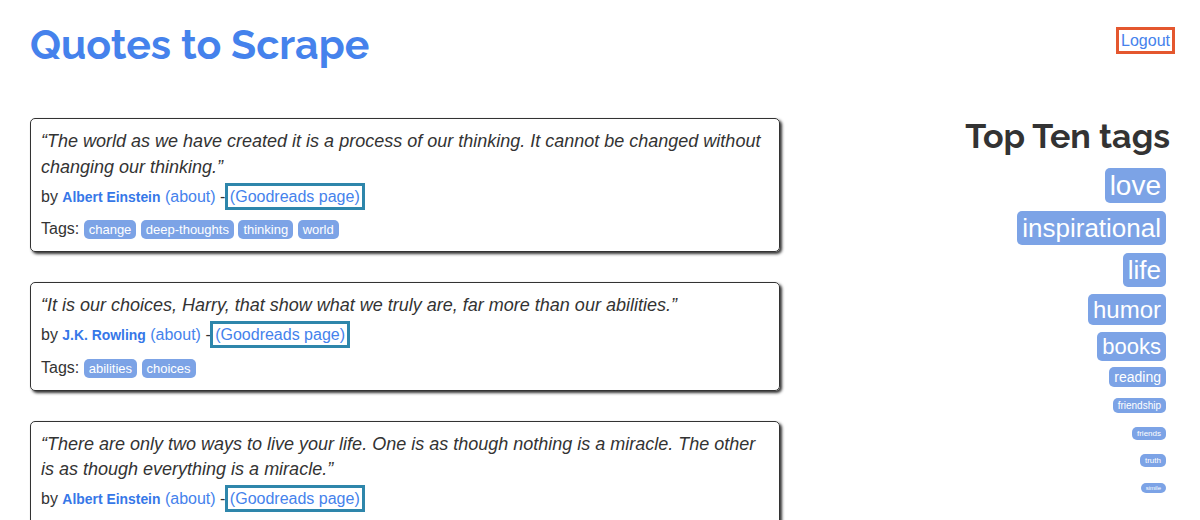
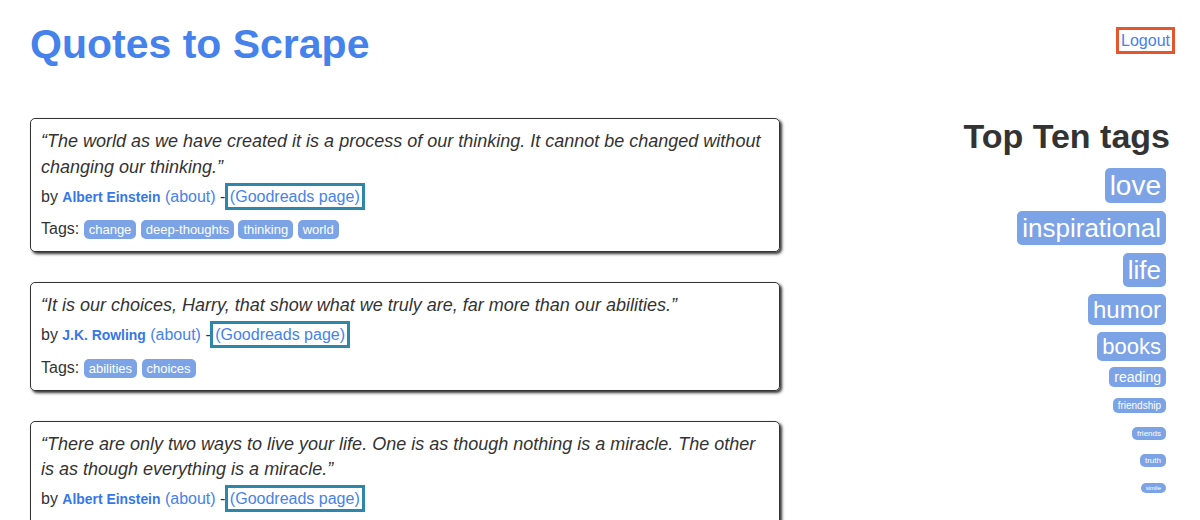
docs(how-it-works): click navigations checked and counted, scroll caps
Pages 1, 2, 4 and 9 follow the navigation fixes: a click, press or select
that navigates is checked like a goto and counts as a page, next clicks are
retried by re-loading their URL, the block rule covers them, and scroll
untilStable stops at maxScrolls. Login, select, pagination and session
scenes re-captured. Refs #84, #85.

Claude-Session: https://claude.ai/code/session_01W62xRVAvZayZ3SWF4PHEBA

Changed region(s): [[0.0308, 0.0615, 0.3083, 0.1231], [0.8017, 0.2462, 0.9867, 0.3077]]

diff --git a/docs/how-it-works/02-page-steps.md b/docs/how-it-works/02-page-steps.md
@@ -206,8 +206,12 @@ only to a logged-in visitor. The recipe [`login`](recipes/page-login/login.input
 ![The link the click follows](../assets/how-it-works/page-login-3.png)
 <!-- /capture -->
 
-None of these steps binds a value, so the trace shows them without an id. There is one `⇢` line, for the
-`goto`: the navigations the key press and the click caused emit no `page:visit`, and the run reports `1 pages`.
+None of these steps binds a value, so the trace shows them without an id. There are three `⇢` lines: the
+`goto`'s, then one for the navigation the key press caused (the form posts, and the site redirects to `/`) and one
+for the click's (page 2). A navigation a `click`, `press` or `select` causes is followed like a `goto`: the engine
+waits for its response and `load`, retries a failure in passing, applies the block rule, emits `page:visit` and
+counts the page, so the run reports `3 pages`. Its `⇢` line comes before the step's own `·` line, which is written
+when the step ends. `page.number` stays 1 throughout: only `paginate` moves it.
 
 <!-- capture:page-login trace lines=12 grep=^(?!.*↺) -->
 ```text
@@ -217,12 +221,12 @@ None of these steps binds a value, so the trace shows them without an id. There 
   · steps.0  goto  … ms
   · steps.1  fill  … ms
   · steps.2  fill  … ms
+  ⇢ page 1  https://quotes.toscrape.com/
   · steps.3  press  … ms
   · steps.4  wait  … ms
+  ⇢ page 1  https://quotes.toscrape.com/page/2/
   · steps.5  click  … ms
   · steps.6  wait  … ms
-  · steps.7  screenshot  … ms
-  · steps.8  extract quotes  … ms
   …
 ```
 <!-- /capture -->
@@ -393,11 +397,11 @@ Each postback is a navigation to `/filter.aspx`, and after each step the engine 
   ⇄ access direct (direct)
   ⇢ page 1  https://quotes.toscrape.com/search.aspx
   · steps.0  goto  … ms
+  ⇢ page 1  https://quotes.toscrape.com/filter.aspx
   · steps.1  select  … ms
   · steps.2  select  … ms
+  ⇢ page 1  https://quotes.toscrape.com/filter.aspx
   · steps.3  click  … ms
-  · steps.4  wait  … ms
-  · steps.5  extract quotes  … ms
   …
 ```
 <!-- /capture -->
@@ -427,10 +431,12 @@ The other options, for pages that hide their `<select>`:
 <!-- /capture -->
 
 `scroll` moves the window to the bottom (`to: "bottom"`) or brings an element into view (`to: "<selector>"`),
-`times` times (default 1). After each round it waits **300 ms** and reads the page's height. With
-`untilStable: true` it keeps going until the height stops changing: the page has nothing more to add.
+`times` times (default 1). After each round it waits `settleMs` (default **300 ms**) and reads the page's
+height. With `untilStable: true` it keeps going until the height stops changing: the page has nothing more to
+add, or `maxScrolls` rounds (default 50) have run, which ends the step with a `warning` event rather than a
+failure.
 
-Those 300 ms are the whole of its patience. A page whose next batch takes longer to arrive looks finished, and
+That wait is the whole of its patience. A page whose next batch takes longer to arrive looks finished, and
 the step ends early. Two recipes on the same page:
 
 - [`scroll-until-stable`](recipes/page-scroll/scroll-until-stable.input.json): `wait` for the first quote, then
@@ -475,8 +481,8 @@ recipe does. Two more details:
 
 - The first `wait` matters too. Right after `goto`, the first batch may still be on its way; a page shorter than
   the window cannot scroll, so the scroll fires no event and nothing more loads.
-- `untilStable` has no cap: a list that never ends never ends the step, and `limits.timeoutMs` does not apply
-  to `scroll`. On such a page, use `times`.
+- On a slow site, raise `settleMs`. On a list that never ends, `maxScrolls` is what stops the step
+  (`limits.timeoutMs` does not apply to `scroll`); set it to the number of batches you want.
 
 A page like this one always has an API behind it. Reading `/api/quotes?page=N` with `request` and
 `paginate` ([part 5](04-flow-steps.md)) is faster and gets every quote; scroll when the API is out of reach.
@@ -653,8 +659,9 @@ reCAPTCHA-shaped challenge and a fake solving API, so nothing leaves the machine
 | Step | Binds under `id` | Changes |
 |---|---|---|
 | `goto` | nothing | `page.url` (the final URL); emits `page:visit` (`⇢`) |
-| `click` | nothing; with `download`, the file | `page.url` if it navigated; with `download`, the current document |
-| `fill`, `press`, `select`, `scroll`, `wait` | nothing | `page.url` if the page navigated |
+| `click` | nothing; with `download`, the file | `page.url` if it navigated, and then a `page:visit` (`⇢`), checked like a `goto`'s; with `download`, the current document |
+| `press`, `select` | nothing | as `click`, without the download |
+| `fill`, `scroll`, `wait` | nothing | `page.url` if the page navigated |
 | `screenshot` | nothing | a file at `path` |
 | `evaluate` | the script's result | whatever the script does to the page |
 | `captcha` | nothing | the page, once solved |

diff --git a/docs/how-it-works/04-flow-steps.md b/docs/how-it-works/04-flow-steps.md
@@ -287,18 +287,19 @@ record per page:
 ```text
 ▶ catalogue-click (web)
   ⇄ access direct (direct)
-  ↺ https://books.toscrape.com/catalogue/page-1.html: net::ERR_TOO_MANY_RETRIES, try 2 in … ms
   ⇢ page 1  https://books.toscrape.com/catalogue/page-1.html
   · steps.0  goto  … ms
     · steps.1.steps.0  extract titles  … ms
     · steps.1.steps.1  extract pager  … ms
   ✚ record [1]
     · steps.1.steps.2  emit  … ms
+  ↺ https://books.toscrape.com/catalogue/page-2.html: net::ERR_TOO_MANY_RETRIES, try 2 in … ms
   ⇢ page 2  https://books.toscrape.com/catalogue/page-2.html
     · steps.1.steps.0  extract titles  … ms
     · steps.1.steps.1  extract pager  … ms
   ✚ record [2]
     · steps.1.steps.2  emit  … ms
+  ↺ https://books.toscrape.com/catalogue/page-3.html: net::ERR_TOO_MANY_RETRIES, try 2 in … ms
   ⇢ page 3  https://books.toscrape.com/catalogue/page-3.html
     · steps.1.steps.0  extract titles  … ms
     · steps.1.steps.1  extract pager  … ms
@@ -318,7 +319,12 @@ record per page:
 <!-- /capture -->
 
 Each click shows as a `⇢ page N` line between two runs of the body, and `page.number` counts the pages
-(`Page 2 of 50` agrees). The run stops at `maxPages`, with 47 pages left. The URL each record carries is the
+(`Page 2 of 50` agrees). The navigation a "next" click causes is checked like a `goto`'s: its status, the block
+rule, and the transport retry. On the network this was captured on, the proxy dropped the loads of pages 2 and 3
+once each (the `↺` lines); the engine loaded the same URL again, which is safe for a link, rather than clicking a
+second time. A load that still fails fails the `paginate` step with its cause (`net::…` or `HTTP 503 at …`)
+instead of running the body on the browser's error page. A "next" that swaps the content in place, with no
+navigation, still pages: it counts a page with no status. The run stops at `maxPages`, with 47 pages left. The URL each record carries is the
 browser's real URL after the click: the web runner re-reads it after every step.
 
 When the body leaves the listing (a `forEach` that does `goto {{link}}` on each product), the engine goes back

diff --git a/docs/how-it-works/09-running.md b/docs/how-it-works/09-running.md
@@ -259,6 +259,7 @@ bootstrap. Both check for the Logout link first:
   · session.bootstrap.steps.0  goto  … ms
   · session.bootstrap.steps.1  fill  … ms
   · session.bootstrap.steps.2  fill  … ms
+  ⇢ page 1  https://quotes.toscrape.com/
   · session.bootstrap.steps.3  click  … ms
   · session.bootstrap.steps.4  wait  … ms
   ⇢ page 1  https://quotes.toscrape.com/
@@ -274,12 +275,12 @@ bootstrap. Both check for the Logout link first:
     · steps.3.steps.2  extract goodreads  … ms
   ✚ record ["“It is our choices, Harry, that show what we truly are, far more than our abilities.”"]
   · steps.3  forEach  … ms
-■ quotes-signed-in: 2 emitted, 0 rejected, 0 duplicates, 2 pages, … ms
+■ quotes-signed-in: 2 emitted, 0 rejected, 0 duplicates, 3 pages, … ms
 ```
 <!-- /capture -->
 
-The bootstrap's steps have paths under `session.bootstrap.steps`, and its page counts: `2 pages` is the login page and
-the home page. The HTTP session carried the login cookie, so the page it got is the logged-in one, with a Goodreads
+The bootstrap's steps have paths under `session.bootstrap.steps`, and its pages count: `3 pages` is the login page, the page
+the login click lands on, and the home page the api recipe reads. The HTTP session carried the login cookie, so the page it got is the logged-in one, with a Goodreads
 link that anonymous visitors don't see:
 
 <!-- capture:run-session records n=2 -->
@@ -326,9 +327,9 @@ plugins in full. No proxy was used for this page.
 
 ### Block detection
 
-After each `goto` and each `request`, the response is checked against the recipe's **block rule** (a
-pagination click isn't checked). When nothing is
-set, the default rule is:
+After each `goto` and each `request`, and after every navigation a `click`, `press`, `select` or pagination
+click causes, the response is checked against the recipe's **block rule**. When nothing is set, the default rule
+is:
 
 ```json
 { "status": [403, 429], "header": { "x-amzn-waf-action": "challenge" } }

diff --git a/docs/how-it-works/01-recipes.md b/docs/how-it-works/01-recipes.md
@@ -580,13 +580,13 @@ out with the session cookie:
   · session.bootstrap.steps.0  goto  … ms
   · session.bootstrap.steps.1  fill  … ms
   · session.bootstrap.steps.2  fill  … ms
+  ⇢ page 1  https://quotes.toscrape.com/
   · session.bootstrap.steps.3  click  … ms
   · session.bootstrap.steps.4  wait  … ms
   ⇢ page 1  https://quotes.toscrape.com/
   · steps.0  request  … ms
   · steps.1  extract menu  … ms
   · steps.2  extract quotes  … ms
-    · steps.3.steps.0  extract text  … ms
   …
 ```
 <!-- /capture -->
@@ -607,7 +607,8 @@ bootstrap, the menu would read `Login` and the `goodreads` extract would find no
   login and the crawl come from the same address.
 - It sees the recipe's `vars`, but not a start point's own `vars`, and it can't emit records.
 - It runs again whenever the session is reopened: after a rotation to a new proxy, for example.
-- The bootstrap's page visit counts in the report's `pages`: this run reports 2.
+- The bootstrap's page visits count in the report's `pages`, the page the login click lands on included: this
+  run reports 3.
 
 ## Loading, validation and binding
 
